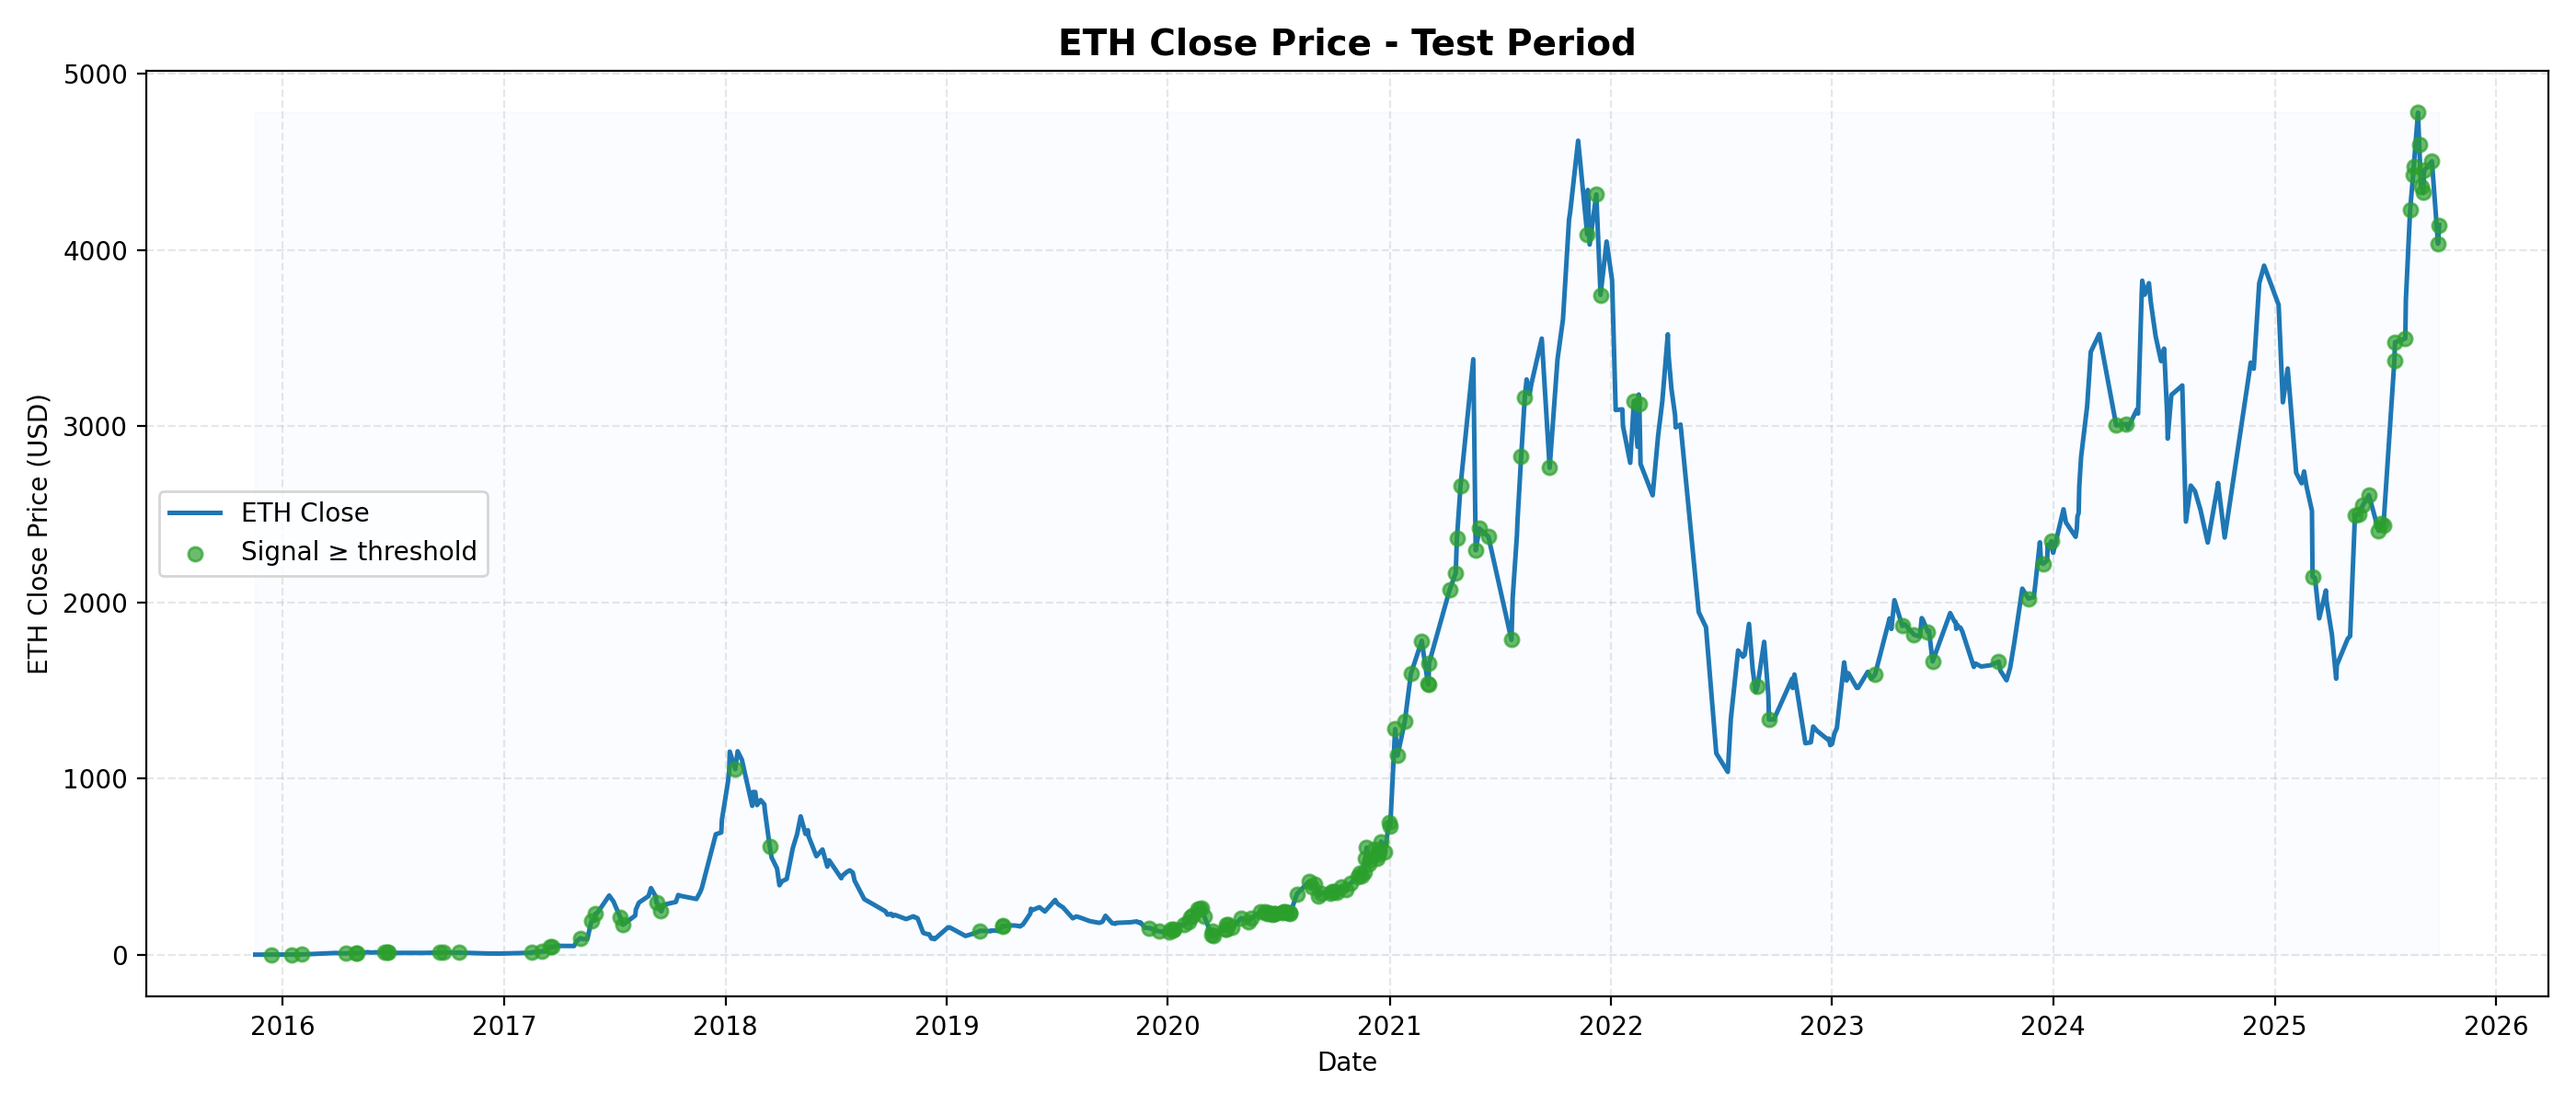
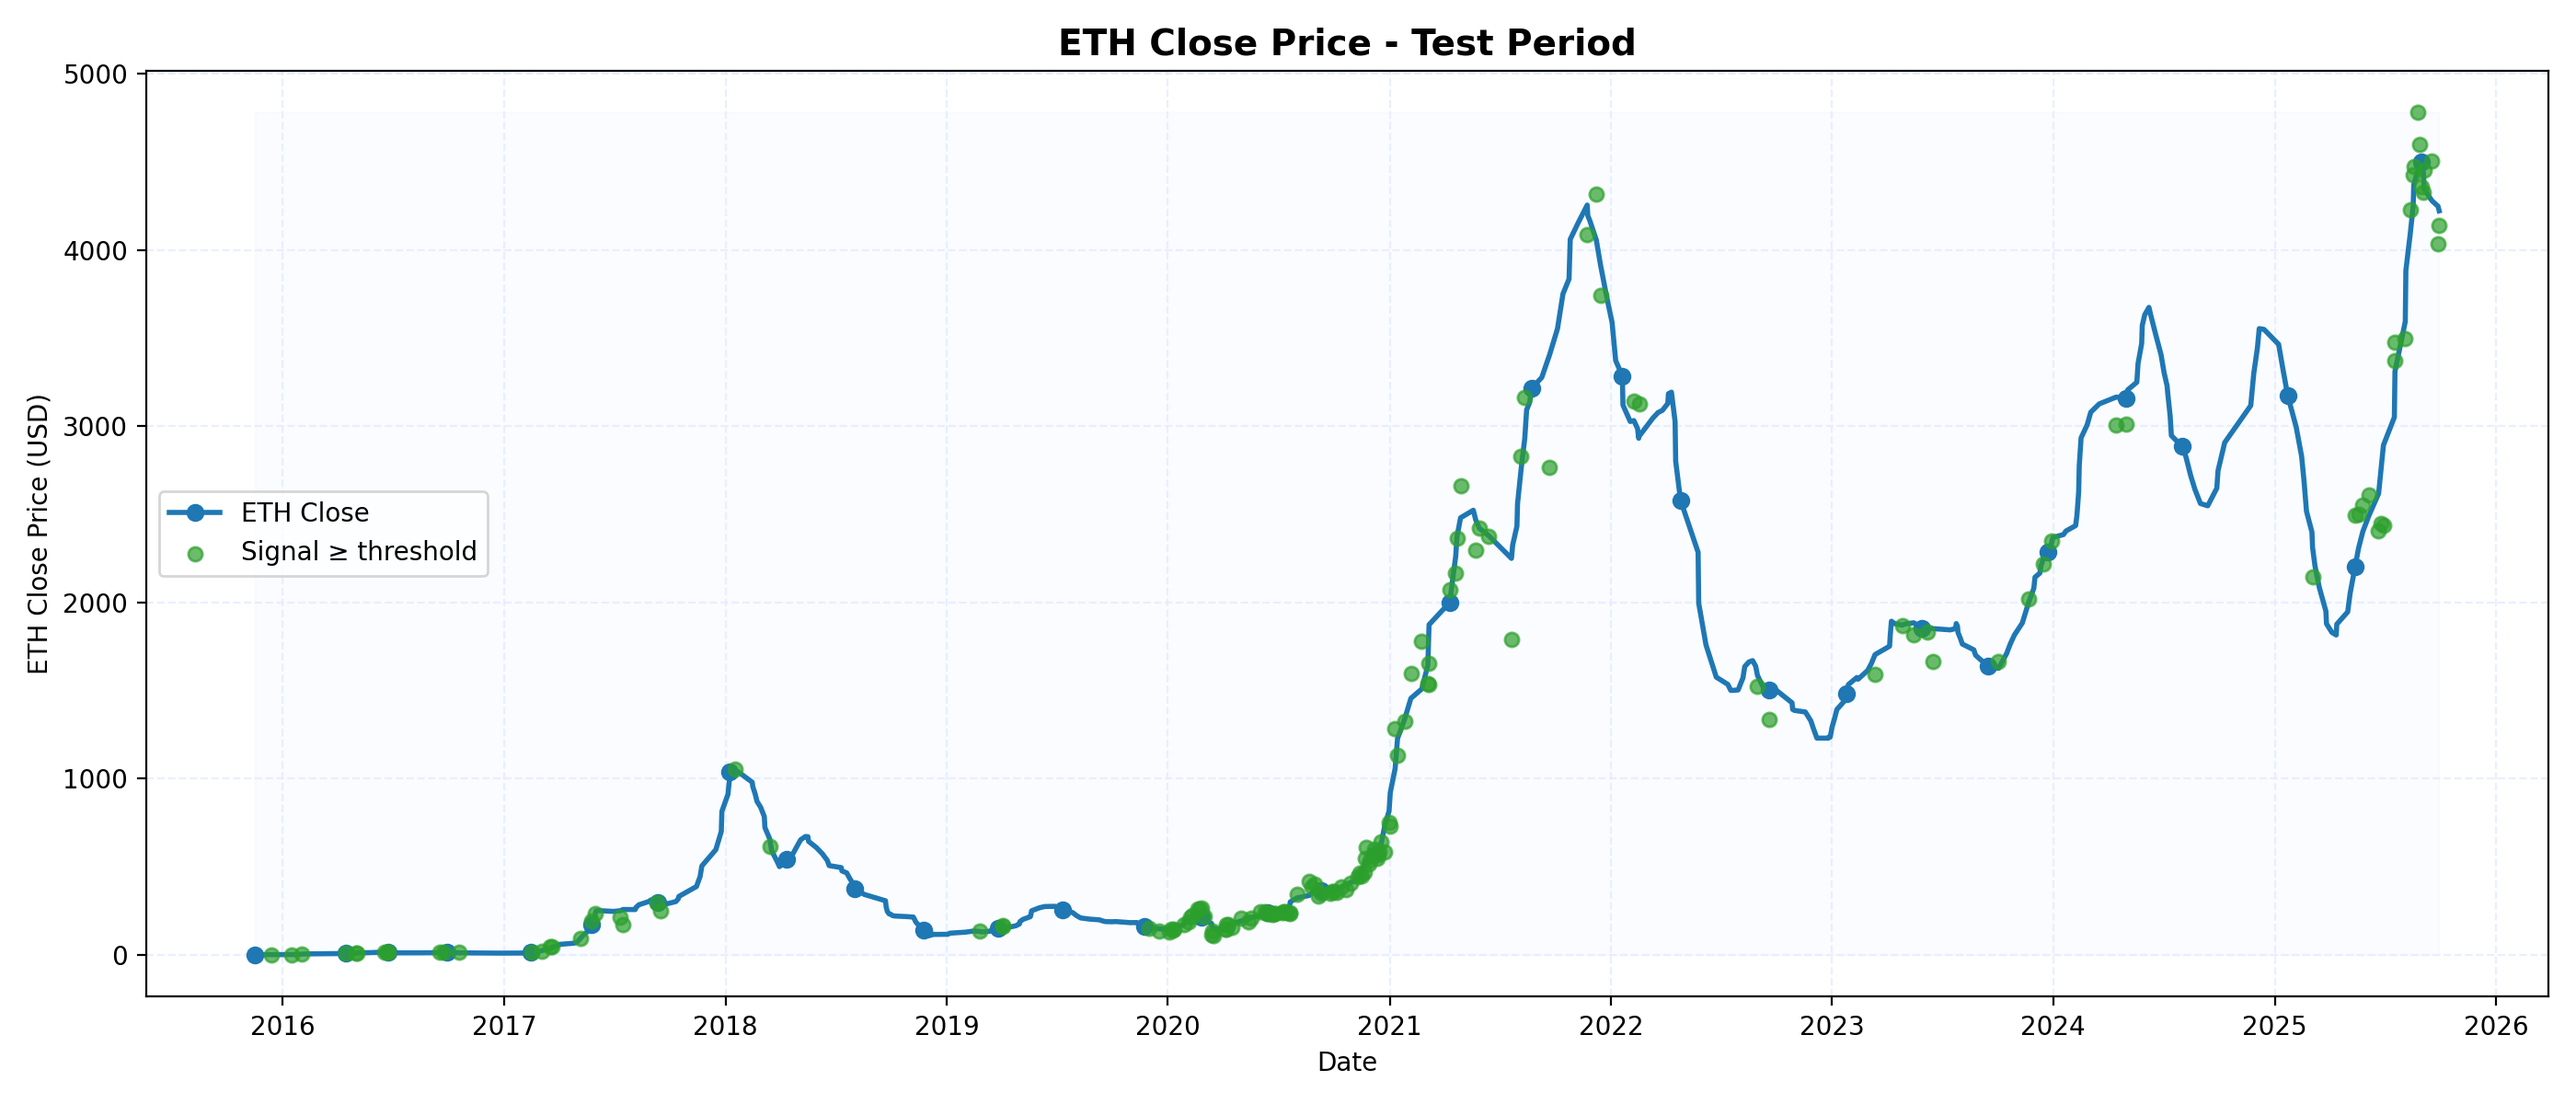
Enhance training metrics visualization with smoothing and modular plotting functions; update ETH price plot for better clarity.

diff --git a/main.py b/main.py
@@ -123,44 +123,77 @@ def ensure_log_dir(path: Path = LOG_DIR) -> Path:
     return path
 
 
+def smooth_curve(values, window: int = 5) -> np.ndarray:
+    arr = np.asarray(values, dtype=float)
+    if arr.size <= 2 or window <= 1:
+        return arr
+    window = min(window, arr.size)
+    if window % 2 == 0:
+        window = window - 1 if window == arr.size else window + 1
+    pad = window // 2
+    kernel = np.ones(window, dtype=float) / window
+    padded = np.pad(arr, pad, mode="edge")
+    smoothed = np.convolve(padded, kernel, mode="valid")
+    return smoothed[: arr.size]
+
+
 def plot_training_history(history: Dict[str, list], out_dir: Path) -> None:
     ensure_log_dir(out_dir)
     epochs = history.get("epoch", [])
     if not epochs:
         return
 
+    epochs_arr = np.asarray(epochs)
+    grid_style = dict(color="#e3ecff", linestyle="--", linewidth=0.8, alpha=0.8)
+
+    def plot_metric(ax, key: str, label: str, marker: str) -> None:
+        series = history.get(key, [])
+        if not series:
+            return
+        series_arr = np.asarray(series, dtype=float)
+        epochs_slice = epochs_arr[: series_arr.size]
+        smoothed = smooth_curve(series_arr)
+        smoothed = smoothed[: epochs_slice.size]
+        local_marker_every = max(1, epochs_slice.size // 12)
+        ax.plot(epochs_slice, smoothed, label=label,
+                marker=marker, markevery=local_marker_every, linewidth=1.6)
+
     plt.figure(figsize=(12, 8))
-    plt.subplot(2, 2, 1)
-    plt.plot(epochs, history.get("train_loss", []), label="train_loss")
-    plt.plot(epochs, history.get("val_loss", []), label="val_loss")
-    plt.title("Loss")
-    plt.xlabel("Epoch")
-    plt.ylabel("Loss")
-    plt.legend()
+    ax = plt.subplot(2, 2, 1)
+    plot_metric(ax, "train_loss", "train_loss", "o")
+    plot_metric(ax, "val_loss", "val_loss", "s")
+    ax.set_title("Loss")
+    ax.set_xlabel("Epoch")
+    ax.set_ylabel("Loss")
+    ax.legend()
+    ax.grid(**grid_style)
 
-    plt.subplot(2, 2, 2)
-    plt.plot(epochs, history.get("val_bal", []), label="val_bal")
-    plt.plot(epochs, history.get("val_acc", []), label="val_acc")
-    plt.title("Validation Accuracy")
-    plt.xlabel("Epoch")
-    plt.ylabel("Score")
-    plt.legend()
+    ax = plt.subplot(2, 2, 2)
+    plot_metric(ax, "val_bal", "val_bal", "o")
+    plot_metric(ax, "val_acc", "val_acc", "s")
+    ax.set_title("Validation Accuracy")
+    ax.set_xlabel("Epoch")
+    ax.set_ylabel("Score")
+    ax.legend()
+    ax.grid(**grid_style)
 
-    plt.subplot(2, 2, 3)
-    plt.plot(epochs, history.get("val_f1", []), label="val_f1")
-    plt.plot(epochs, history.get("val_mcc", []), label="val_mcc")
-    plt.title("Validation F1 / MCC")
-    plt.xlabel("Epoch")
-    plt.ylabel("Score")
-    plt.legend()
+    ax = plt.subplot(2, 2, 3)
+    plot_metric(ax, "val_f1", "val_f1", "o")
+    plot_metric(ax, "val_mcc", "val_mcc", "s")
+    ax.set_title("Validation F1 / MCC")
+    ax.set_xlabel("Epoch")
+    ax.set_ylabel("Score")
+    ax.legend()
+    ax.grid(**grid_style)
 
-    plt.subplot(2, 2, 4)
-    plt.plot(epochs, history.get("val_roc", []), label="val_roc")
-    plt.plot(epochs, history.get("lr", []), label="lr")
-    plt.title("Validation ROC & LR")
-    plt.xlabel("Epoch")
-    plt.ylabel("Score / LR")
-    plt.legend()
+    ax = plt.subplot(2, 2, 4)
+    plot_metric(ax, "val_roc", "val_roc", "o")
+    plot_metric(ax, "lr", "lr", "s")
+    ax.set_title("Validation ROC & LR")
+    ax.set_xlabel("Epoch")
+    ax.set_ylabel("Score / LR")
+    ax.legend()
+    ax.grid(**grid_style)
 
     plt.tight_layout()
     plt.savefig(out_dir / "training_metrics.png", dpi=200)
@@ -194,7 +227,9 @@ def plot_test_price(panel: pd.DataFrame,
     prices = sub_panel["ETH_close"].astype(float)
 
     plt.figure(figsize=(14, 6))
-    plt.plot(plot_dates, prices, color="#1f77b4", linewidth=1.8, label="ETH Close")
+    smoothed_prices = smooth_curve(prices, window=7) if len(prices) >= 7 else prices
+    plt.plot(plot_dates, smoothed_prices, color="#1f77b4", linewidth=2.0,
+             marker="o", markevery=max(1, len(plot_dates) // 30), label="ETH Close")
     plt.fill_between(plot_dates, prices.min(), prices.max(), color="#d6e9ff", alpha=0.1)
 
     if annotate_thresholds and probs is not None and threshold is not None:
@@ -203,13 +238,14 @@ def plot_test_price(panel: pd.DataFrame,
         plt.scatter(plot_dates[long_mask], prices.values[long_mask],
                     color="#2ca02c", s=30, label="Signal ≥ threshold", zorder=5, alpha=0.7)
 
-    plt.gca().xaxis.set_major_locator(mdates.AutoDateLocator())
-    plt.gca().xaxis.set_major_formatter(mdates.ConciseDateFormatter(mdates.AutoDateLocator()))
-    plt.grid(True, linestyle="--", alpha=0.3)
-    plt.title(title, fontsize=14, fontweight="bold")
-    plt.xlabel("Date")
-    plt.ylabel("ETH Close Price (USD)")
-    plt.legend()
+    ax = plt.gca()
+    ax.xaxis.set_major_locator(mdates.AutoDateLocator())
+    ax.xaxis.set_major_formatter(mdates.ConciseDateFormatter(mdates.AutoDateLocator()))
+    ax.grid(color="#e3ecff", linestyle="--", linewidth=0.8, alpha=0.8)
+    ax.set_title(title, fontsize=14, fontweight="bold")
+    ax.set_xlabel("Date")
+    ax.set_ylabel("ETH Close Price (USD)")
+    ax.legend()
     plt.tight_layout()
     plt.savefig(out_dir / "eth_test_price.png", dpi=200)
     plt.close()
